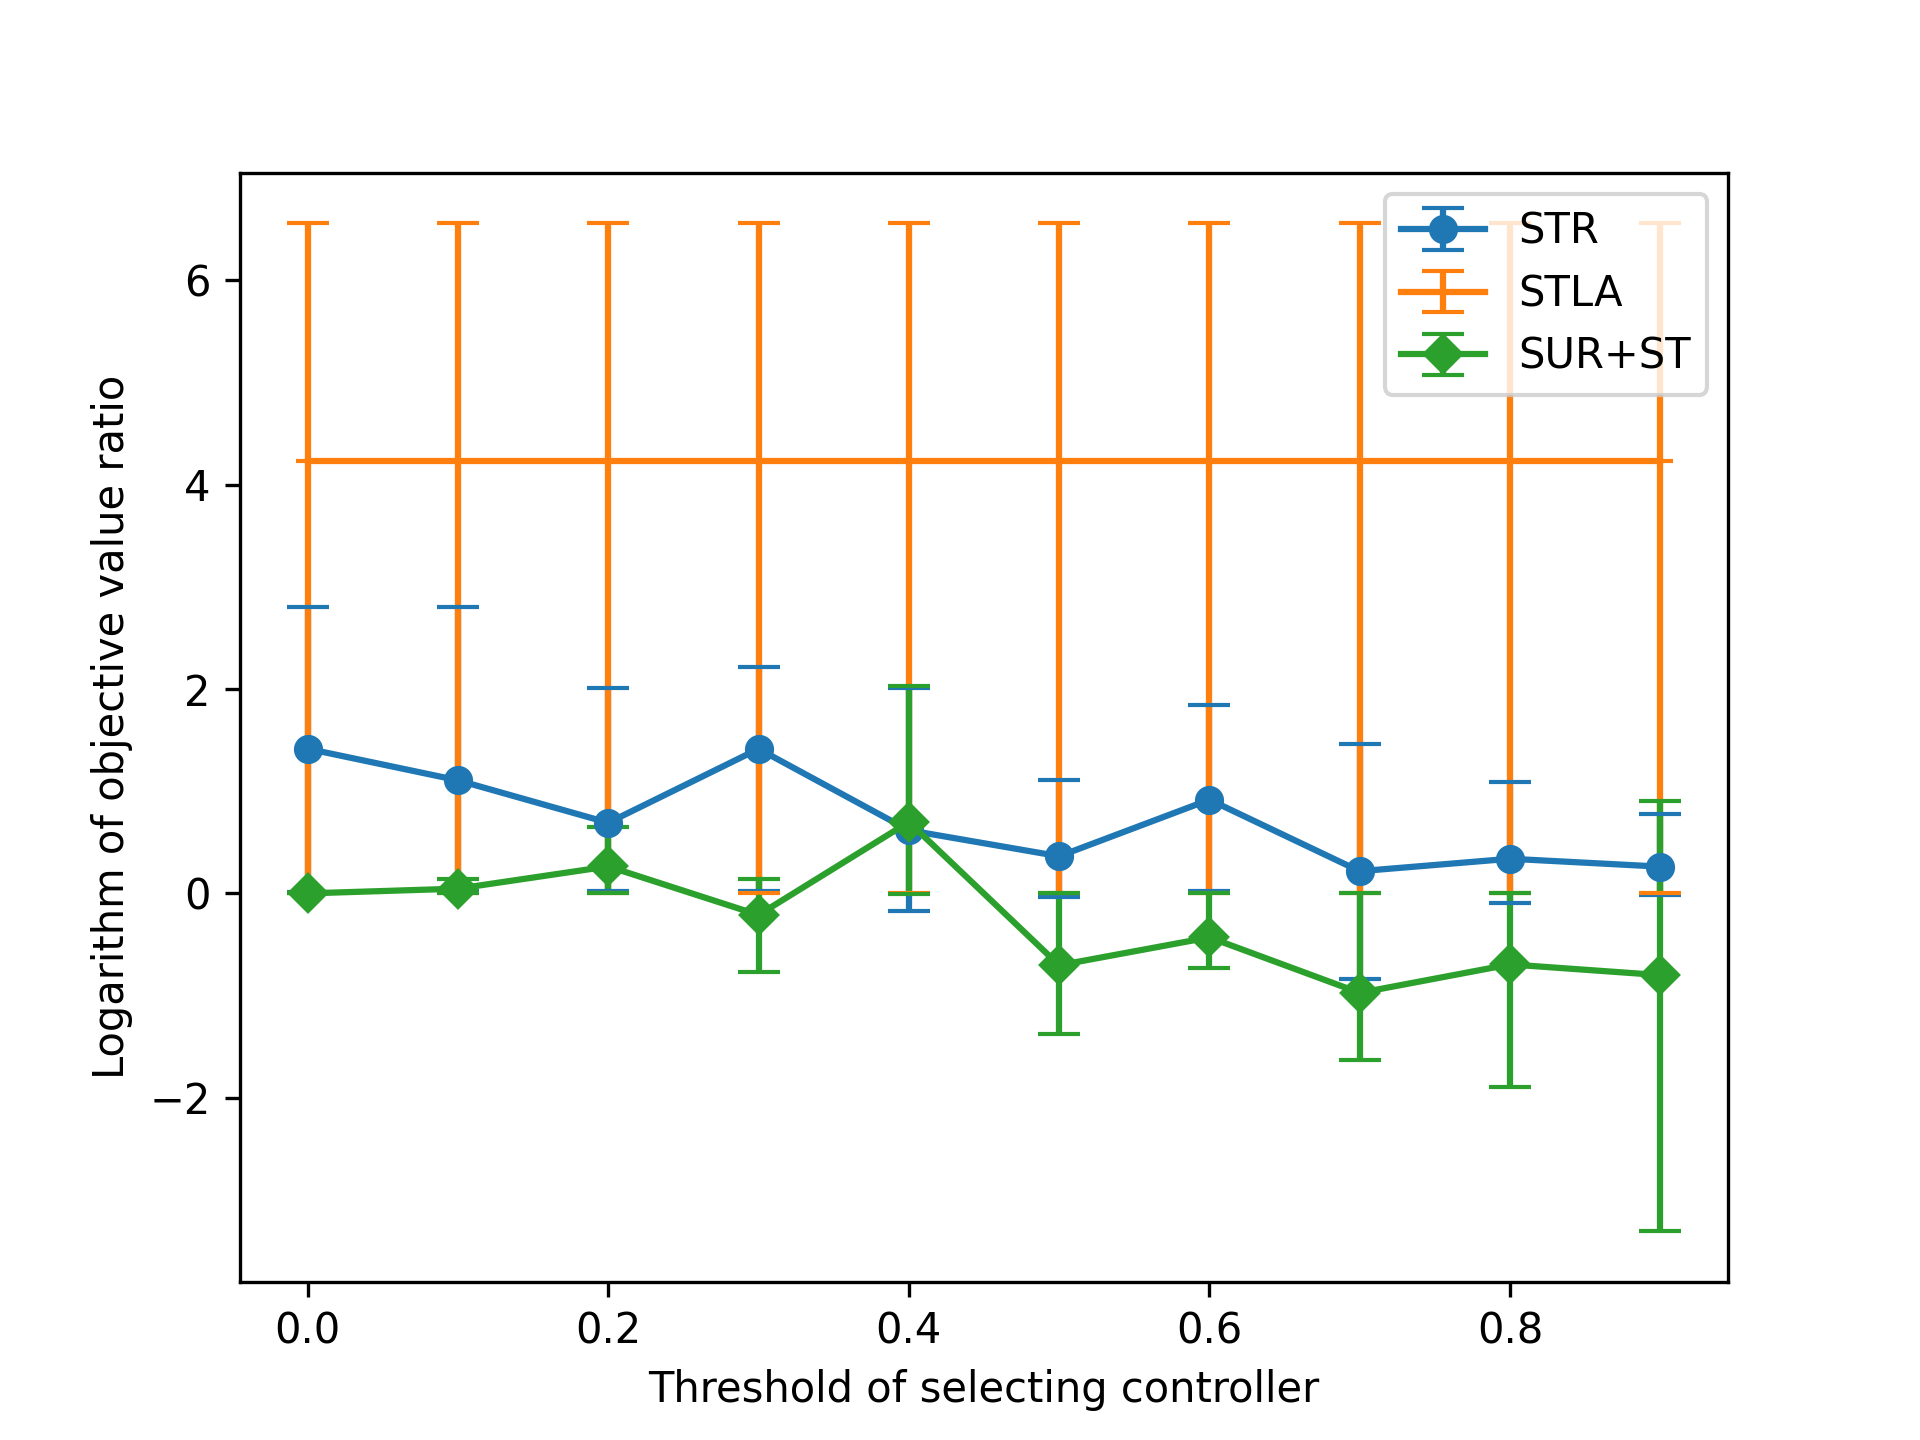
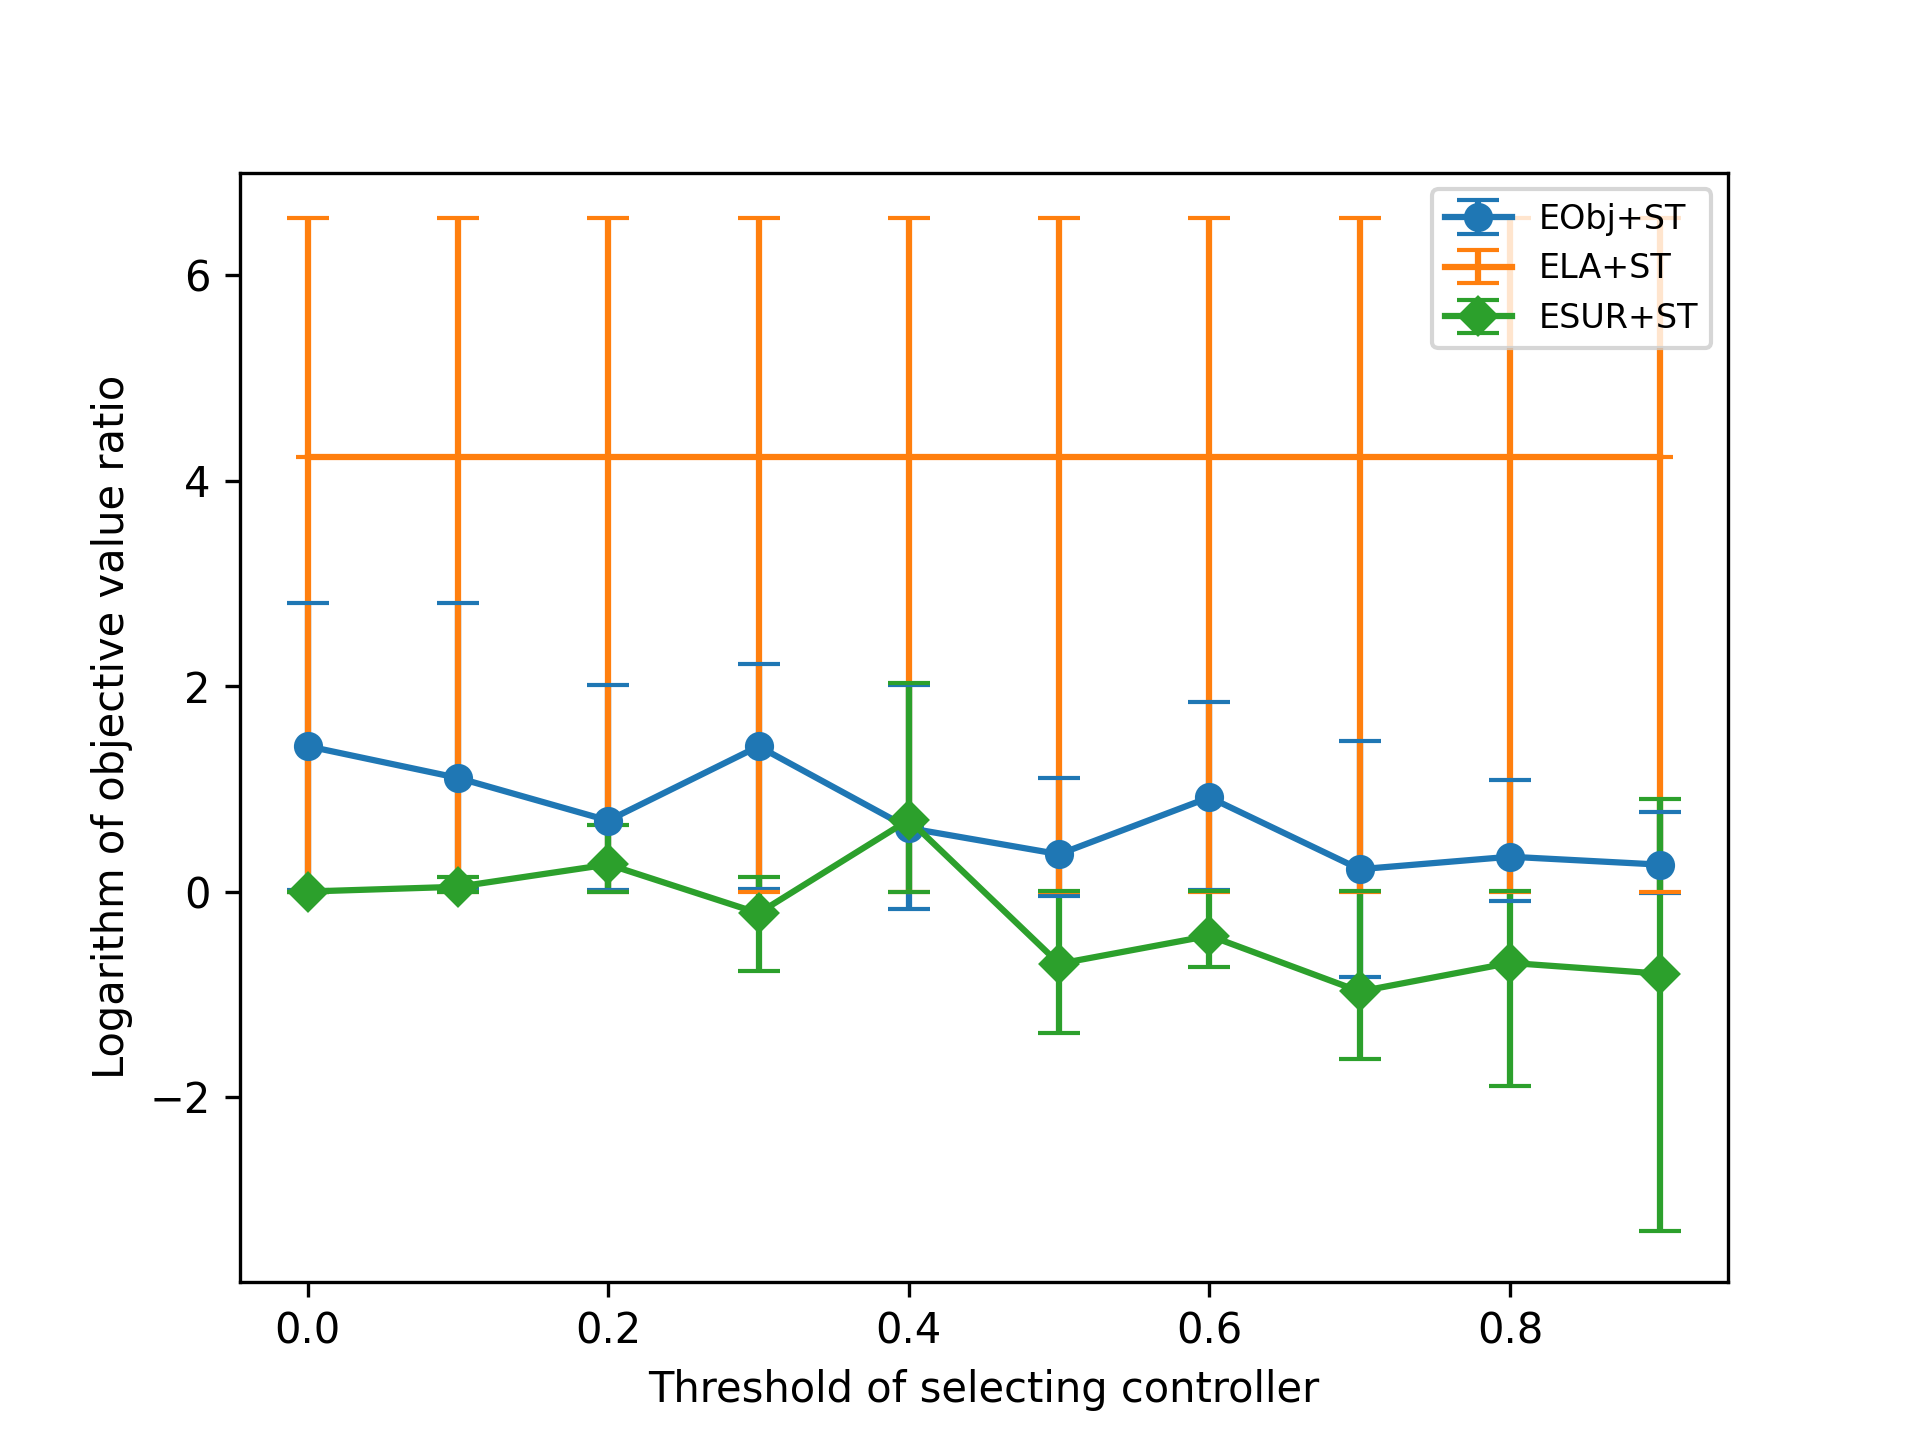
add result figures

diff --git a/tools/draw_figure.py b/tools/draw_figure.py
@@ -14,7 +14,7 @@ def draw_threshold(instance='H2', mode="sep_per"):
                4.0658313571473315e-07, 5.159569271828701e-08, 2.8041560551361755e-07, 1.1678685185589899e-07,
                4.893899530067358e-08, 2.4012535515538502e-08]
         tv = [62, 62, 74, 74, 74, 58, 52, 48, 36, 24]
-        
+
         obj_sur = [4.0015787350355936e-09, 4.0015787350355936e-09, 1.7960340215061876e-08, 6.788980488892093e-10,
                    4.291472838202637e-07, 7.388747391701145e-10, 7.388747391701145e-10, 9.410083823269133e-11,
                    2.5455332286483667e-09, 3.2138073535747935e-08]
@@ -44,7 +44,7 @@ def draw_threshold(instance='H2', mode="sep_per"):
                0.001636694130179861, 0.0016406033006001186, 0.0016329232452819697, 0.001634177350660071,
                0.0016424429254702222, 0.0016512816476880188, 0.0016358850624846877, 0.0016479792765931034,
                0.0016479186490706565, 0.0016484078942400338]
-               # 0.006627966615676439]
+        # 0.006627966615676439]
         obj_sur = [0.0015630913010576952, 0.0015608963559184952,
                    0.0015606807308062853, 0.0015560945768714474, 0.0015574275852653363, 0.001569007743440154,
                    0.0015703856822677498, 0.0015706854144919014, 0.0015701928004578924, 0.0015700497898371024]
@@ -67,7 +67,7 @@ def draw_threshold(instance='H2', mode="sep_per"):
             plt.ylim([-0.004, 0.030])
             plt.savefig("../figure_paper/Molecule_LiH_evotime20.0_n_ts200_obj_log10_comp_per.png")
         if instance == "BeH2":
-           plt.savefig("../figure_paper/Molecule_BeH2_evotime20.0_n_ts200_obj_log10_comp_per.png")
+            plt.savefig("../figure_paper/Molecule_BeH2_evotime20.0_n_ts200_obj_log10_comp_per.png")
 
         plt.figure(dpi=300)
         plt.plot(threshold[:10], [tv_e / tv_sur[0] for tv_e in tv[:10]], '-o', label='STR')
@@ -201,21 +201,22 @@ def draw_err_bar():
     ratio_tv_la_err[1, :] = np.max(ratio_tv_la_all, axis=0) - average_ratio_tv_la
 
     plt.figure(dpi=300)
-    plt.errorbar(threshold, average_ratio_obj, yerr=ratio_obj_err, fmt='-o', capsize=5, label='STR')
-    plt.errorbar(threshold, average_ratio_obj_la, yerr=ratio_obj_la_err, fmt='-+', capsize=5, label='STLA')
-    plt.errorbar(threshold, average_ratio_obj_sur, yerr=ratio_obj_sur_err, fmt='-D', capsize=5, label='SUR+ST')
+    plt.errorbar(threshold, average_ratio_obj, yerr=ratio_obj_err, fmt='-o', capsize=5, label='EObj+ST')
+    plt.errorbar(threshold, average_ratio_obj_la, yerr=ratio_obj_la_err, fmt='-+', capsize=5, label='ELA+ST')
+    plt.errorbar(threshold, average_ratio_obj_sur, yerr=ratio_obj_sur_err, fmt='-D', capsize=5, label='ESUR+ST')
     plt.xlabel("Threshold of selecting controller")
     plt.ylabel("Logarithm of objective value ratio")
-    plt.legend(loc='upper right')
+    plt.ylim(top=7)
+    plt.legend(loc='upper right', fontsize=8)
     plt.savefig("../figure_paper/all_instances_obj_log10_3methods.png")
 
     plt.figure(dpi=300)
-    plt.errorbar(threshold, average_ratio_tv, yerr=ratio_tv_err, fmt='-o', capsize=5, label='STR')
-    plt.errorbar(threshold, average_ratio_tv_la, yerr=ratio_tv_la_err, fmt='-+', capsize=5, label='STLA')
-    plt.errorbar(threshold, average_ratio_tv_sur, yerr=ratio_tv_sur_err, fmt='-D', capsize=5, label='SUR+ST')
+    plt.errorbar(threshold, average_ratio_tv, yerr=ratio_tv_err, fmt='-o', capsize=5, label='EObj+ST')
+    plt.errorbar(threshold, average_ratio_tv_la, yerr=ratio_tv_la_err, fmt='-+', capsize=5, label='ELA+ST')
+    plt.errorbar(threshold, average_ratio_tv_sur, yerr=ratio_tv_sur_err, fmt='-D', capsize=5, label='ESUR+ST')
     plt.xlabel("Threshold of selecting controller")
     plt.ylabel("TV norm ratio")
-    plt.legend(loc='upper right')
+    plt.legend(loc='upper right', fontsize=8)
     plt.savefig("../figure_paper/all_instances_tv_log10_3methods.png")
 
 
@@ -292,8 +293,8 @@ def draw_obj_tv():
     average_ratio_tv_sur = np.mean(ratio_tv_sur_all, axis=0)
 
     plt.figure(dpi=300)
-    plt.plot(average_ratio_tv, average_ratio_obj, 'o', label='STR')
-    plt.plot(average_ratio_tv_sur, average_ratio_obj_sur, '^', label='SUR+ST')
+    plt.plot(average_ratio_tv, average_ratio_obj, 'o', label='EObj+ST')
+    plt.plot(average_ratio_tv_sur, average_ratio_obj_sur, '^', label='ESUR+ST')
     plt.xlabel("TV-norm ratio")
     plt.ylabel("Logarithm of objective value ratio")
     plt.legend(loc='upper right')
@@ -409,7 +410,7 @@ def draw_str_diff_ub_molecule():
     plt.legend(prop={'size': 6})
     # plt.legend()
     plt.savefig("../figure_paper/MoleculeNew_H2_evotime4.0_str_error_delta_t_log10.png")
-    
+
 
 def draw_str_diff_ub_energy():
     change = [0.0022654349904387416, 0.00037150083126546996, -3.3161086668842543e-06, -1.5042721027147543e-05,
@@ -603,15 +604,214 @@ def draw_str_error_ub_energy_log2():
     plt.savefig("../figure_paper/EnergyADMM4_evotime2.0_str_error_delta_t_zero.png")
 
 
+def draw_all_thresholds():
+    threshold = [0, 0.1, 0.2, 0.3, 0.4, 0.5, 0.6, 0.7, 0.8, 0.9]
+    obj_h2 = [2.5604763034259292e-06, 2.5604763034259292e-06, 4.085888842819685e-07, 4.086649161294531e-07,
+              4.0658313571473315e-07, 5.159569271828701e-08, 2.8041560551361755e-07, 1.1678685185589899e-07,
+              4.893899530067358e-08, 2.4012535515538502e-08]
+    tv_h2 = [62, 62, 74, 74, 74, 58, 52, 48, 36, 24]
+    obj_sur_h2 = [4.0015787350355936e-09, 4.0015787350355936e-09, 1.7960340215061876e-08, 6.788980488892093e-10,
+                  4.291472838202637e-07, 7.388747391701145e-10, 7.388747391701145e-10, 9.410083823269133e-11,
+                  2.5455332286483667e-09, 3.2138073535747935e-08]
+    tv_sur_h2 = [72, 72, 76, 72, 72, 70, 70, 66, 62, 54]
+
+    obj_lih = [0.0016300845539389819, 0.0016453065224827368, 0.0016325817157971656, 0.001636694130179861,
+               0.0016406033006001186, 0.0016329232452819697, 0.001634177350660071, 0.0016424429254702222,
+               0.0016512816476880188, 0.0016358850624846877]
+    obj_sur_lih = [0.0015630913010576952, 0.0015608963559184952,
+                   0.0015606807308062853, 0.0015560945768714474, 0.0015574275852653363, 0.001569007743440154,
+                   0.0015703856822677498, 0.0015706854144919014, 0.0015701928004578924, 0.0015700497898371024]
+    tv_lih = [232, 182, 172, 170, 146, 156, 138, 112, 74, 78]
+    tv_sur_lih = [232, 228, 226, 230, 224, 226, 218, 204, 200, 116]
+
+    obj_beh2 = [7.304110769101868e-06, 8.57114753394228e-07, 3.0718463739365376e-07, 4.514792461118855e-05,
+                1.8491606301740404e-07, 2.526554518933466e-07, 2.1274215824540477e-06, 4.0447738269833167e-08,
+                2.2238146257791414e-07, 2.6858612756086586e-07]
+    tv_beh2 = [372, 312, 292, 282, 268, 274, 268, 244, 176, 128]
+    obj_sur_beh2 = [2.7627211252045925e-07, 3.8139089475475174e-07, 3.8139089475475174e-07, 3.8139089475475174e-07,
+                    3.227216884837958e-07, 1.1590271853378908e-08, 7.613623720370555e-08, 1.4060334563303911e-08,
+                    3.5548098908932957e-09, 1.366429192017904e-10]
+    tv_sur_beh2 = [384, 380, 380, 380, 380, 372, 374, 338, 232, 192]
+
+    all_obj = [obj_sur_h2, obj_sur_lih, obj_sur_beh2, obj_h2, obj_lih, obj_beh2]
+    all_tv = [tv_sur_h2, tv_sur_lih, tv_sur_beh2, tv_h2, tv_lih, tv_beh2]
+    default_s = matplotlib.rcParams['lines.markersize'] ** 2
+    instance_name = ["CircuitH2", "CircuitLiH", "CircuitBeH2"]
+
+    fig = plt.figure(figsize=(12, 8), dpi=300)
+    fig.subplots_adjust(hspace=0.3, wspace=0.3, left=0.07, right=0.98, top=0.95, bottom=0.18)
+    for i in range(6):
+        ax = fig.add_subplot(2, 3, i + 1)
+        if i < 3:
+            for j in range(10):
+                if j == 0:
+                    sc = ax.scatter(all_tv[i][j], all_obj[i][j], marker='o', label='ESUR+ST-' + str(threshold[j]),
+                                    s=default_s * 10 * (threshold[j] + 0.1), alpha=1 - threshold[j])
+                else:
+                    ax.scatter(all_tv[i][j], all_obj[i][j], marker='o', label='ESUR+ST-' + str(threshold[j]),
+                               color=sc.get_facecolors()[0].tolist(),
+                               s=default_s * 10 * (threshold[j] + 0.1), alpha=1 - threshold[j])
+        else:
+            for j in range(10):
+                if j == 0:
+                    sc = ax.scatter(all_tv[i][j], all_obj[i][j], marker='^', label='EObj+ST-' + str(threshold[j]),
+                                    s=default_s * 10 * (threshold[j] + 0.1), alpha=1 - threshold[j])
+                else:
+                    ax.scatter(all_tv[i][j], all_obj[i][j], marker='^', label='EObj+ST-' + str(threshold[j]),
+                               color=sc.get_facecolors()[0].tolist(),
+                               s=default_s * 10 * (threshold[j] + 0.1), alpha=1 - threshold[j])
+        plt.xlabel("TV regularizer", fontsize=10)
+        if i % 3 == 0:
+            plt.ylabel("Objective value", fontsize=10)
+
+        ax.set_title(instance_name[i % 3], fontsize=12)
+
+    lines_1, labels_1 = fig.axes[0].get_legend_handles_labels()
+    lines_2, labels_2 = fig.axes[4].get_legend_handles_labels()
+
+    lines = lines_1 + lines_2
+    labels = labels_1 + labels_2
+
+    fig.legend(lines, labels, bbox_to_anchor=(0.1, 0.01, 0.8, 3), loc='lower center', mode='expand',
+               borderaxespad=0, ncol=5, prop={'size': 8}, borderpad=0.5)
+
+    plt.savefig("../figure_paper/all_thresholds.png")
+
+
+def draw_all_instances():
+    obj = [[3.56e-03, 7.77e-12, 4.77e-10, 2.20e-09],
+           [0.166, 0.15440796, 0.155, 0.15442748],
+           [0.219, 0.21348347, 0.213474441, 0.21347054],
+           [6.15e-03, 5.24e-08, 5.38e-03, 4.74e-07],
+           [3.33e-02, 1.57e-03, 1.57e-03, 1.63e-03],
+           [0.070, 6.56e-09, 1.000, 2.68e-07]]
+
+    tv = [[4, 42, 38, 40],
+          [14.4, 27.6, 25.2, 25.2],
+          [50.0, 41.6, 41.2, 42.8],
+          [76, 36, 4, 14],
+          [252, 102, 34, 78],
+          [370, 138, 0, 128]]
+
+    label = ["SUR+ALB", "ESUR+ST", "ELA+ST", "EObj+ST"]
+    marker_list = ['o', '^', '*', 'D']
+    instance_name = ["Energy2", "Energy4", "Energy6", "CircuitH2", "CircuitLiH", "CircuitBeH2"]
+    num_instances = len(instance_name)
+    best_index = [2, 3, 2, 3, 2, 3]
+
+    fig = plt.figure(figsize=(12, 8), dpi=300)
+    fig.subplots_adjust(hspace=0.3, wspace=0.2, left=0.07, right=0.98, top=0.95, bottom=0.11)
+    for i in range(num_instances):
+        ax = fig.add_subplot(2, 3, i + 1)
+        for j in range(4):
+            sc = ax.scatter(tv[i][j], obj[i][j], marker=marker_list[j], label=label[j])
+        plt.xlabel("TV regularizer", fontsize=10)
+        if i % 3 == 0:
+            plt.ylabel("Objective value", fontsize=10)
+        ax.annotate(label[best_index[i]], xy=(tv[i][best_index[i]], obj[i][best_index[i]]),
+                    xycoords='data', xytext=(0, 40), textcoords='offset points',
+                    arrowprops=dict(arrowstyle='->', color='black'),
+                    va='center', ha='left', fontsize=8)
+        ax.set_title(instance_name[i], fontsize=12)
+
+    lines, labels = fig.axes[0].get_legend_handles_labels()
+
+    fig.legend(lines, labels, bbox_to_anchor=(0.2, 0.01, 0.6, 1), loc='lower center', mode='expand',
+               borderaxespad=0, ncol=6, prop={'size': 10}, borderpad=0.5)
+    plt.savefig("../figure_paper/all_instances.png")
+
+
+def draw_time():
+    num_qubits = [2, 4, 6, 2, 4, 6]
+    num_controller = [2, 2, 2, 5, 12, 19]
+    num_steps = [40, 40, 40, 80, 200, 200]
+
+    time = [[2.26, 0.07, 0.55, 0.89],
+            [7.90, 0.51, 1.58, 2.54],
+            [9.88, 4.08, 11.91, 18.16],
+            [4.70, 0.08, 0.05, 6.25],
+            [9.05, 1.50, 0.67, 284.14],
+            [58.60, 8.21, 2.96, 9877.92]]
+    iteration = [[262, 5, 5, 4],
+                 [280, 24, 19, 21],
+                 [56, 37, 41, 37],
+                 [33, 6, 3, 25],
+                 [26, 22, 32, 39],
+                 [46, 15, 1, 18]]
+
+    time = np.log10(np.array(time))
+    iteration = np.log10(np.array(iteration))
+
+    label = ["SUR+ALB", "ESUR+ST", "ELA+ST", "EObj+ST"]
+
+    marker = ['o', '^', '*', 'D']
+    instance_name = ["Energy2", "Energy4", "Energy6", "CircuitH2", "CircuitLiH", "CircuitBeH2"]
+    num_instances = len(instance_name)
+
+    instance_group = ["Energy-", "Circuit-"]
+    xaxis = [2 ** num_qubits[i] * num_controller[i] * num_steps[i] for i in range(num_instances)]
+    xaxis = np.log10(np.array(xaxis))
+    idx_instance = [2, 6, 8]
+
+    matplotlib.rcParams['text.usetex'] = True
+    prop_cycle = plt.rcParams['axes.prop_cycle']
+    colors = prop_cycle.by_key()['color']
+    default_s = matplotlib.rcParams['lines.markersize'] ** 2
+
+    fig = plt.figure(figsize=(8, 4), dpi=300)
+    # fig.subplots_adjust(left=0.13, right=0.95, top=0.9, bottom=0.2)
+    fig.subplots_adjust(left=0.08, right=0.95, top=0.9, bottom=0.2)
+    ax = fig.add_subplot(1, 2, 1)
+    # fig.subplots_adjust(left=0.11, right=0.82, top=0.95, bottom=0.12)
+    for i in range(len(instance_name)):
+        for j in range(4):
+            if i % 3 == 0:
+                sc = ax.scatter(xaxis[i], time[i, j], color=colors[i // 3], s=default_s,
+                                marker=marker[j], label=instance_group[i // 3] + label[j])
+            else:
+                area = default_s + (i % 3) * 0.5 * default_s
+                sc = ax.scatter(xaxis[i], time[i, j], s=area, color=colors[i // 3], marker=marker[j])
+
+    plt.xlabel(r'$\log_{10} (2^q\times N\times T)$')
+    plt.ylabel("Common logarithm of CPU time (s)")
+    ax.set_title("CPU time (s)")
+
+    lines, labels = fig.axes[0].get_legend_handles_labels()
+
+    ax = fig.add_subplot(1, 2, 2)
+    for i in range(len(instance_name)):
+        for j in range(4):
+            if i % 3 == 0:
+                sc = ax.scatter(xaxis[i], iteration[i, j], color=colors[i // 3], s=default_s,
+                                marker=marker[j], label=instance_group[i // 3] + label[j])
+            else:
+                area = default_s + (i % 3) * 0.5 * default_s
+                sc = ax.scatter(xaxis[i], iteration[i, j], s=area, color=colors[i // 3], marker=marker[j])
+
+    plt.xlabel(r'$\log_{10} (2^q\times N\times T)$')
+    plt.ylabel("Common logarithm of iterations")
+    ax.set_title("Iteration")
+
+    lines, labels = fig.axes[0].get_legend_handles_labels()
+
+    fig.legend(lines, labels, bbox_to_anchor=(0.2, 0.01, 0.6, 1), loc='lower center', mode='expand',
+               borderaxespad=0, ncol=4, prop={'size': 6}, borderpad=0.5)
+    # fig.legend(lines, labels, bbox_to_anchor=(1, 0.5), loc='center right', prop={'size': 6}, borderpad=0.5)
+    plt.savefig("../figure_paper/time_and_iteration_log.png")
+
+
 if __name__ == '__main__':
     # draw_threshold("H2", "spe_per")
     # draw_threshold("LiH", "spe_per")
     # draw_threshold("BeH2", per=True)
     # draw_err_bar()
-    draw_threshold_stla()
+    # draw_all_thresholds()
+    # draw_threshold_stla()
     # draw_obj_tv()
     # draw_diff_str()
     # draw_str_diff_ub_molecule()
     # draw_str_diff_ub_energy()
     # draw_str_error_ub_molecule_log2()
     # draw_str_error_ub_energy_log2()
+    # draw_all_instances()
+    draw_time()
